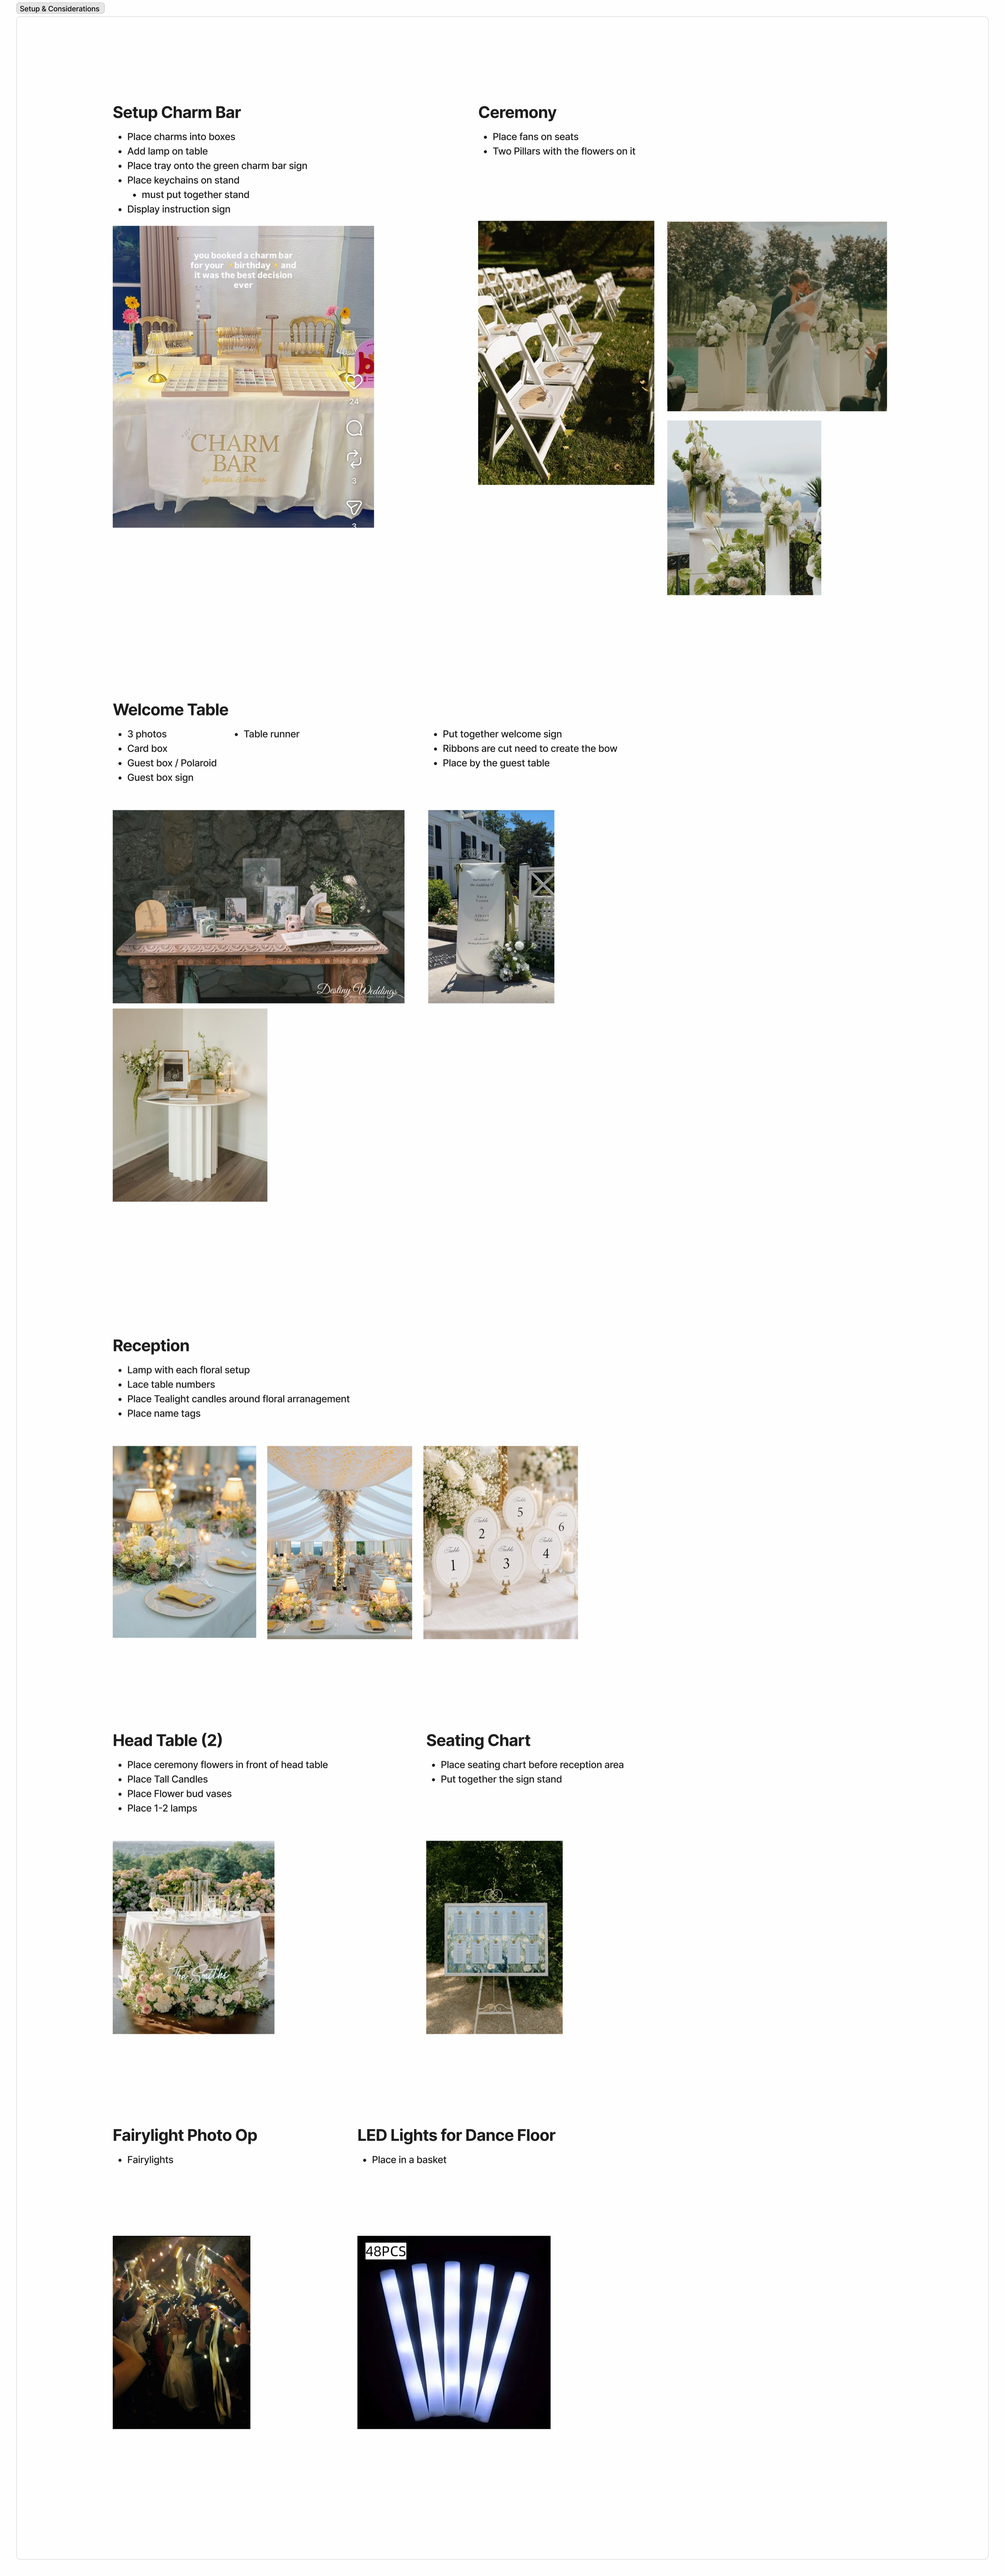
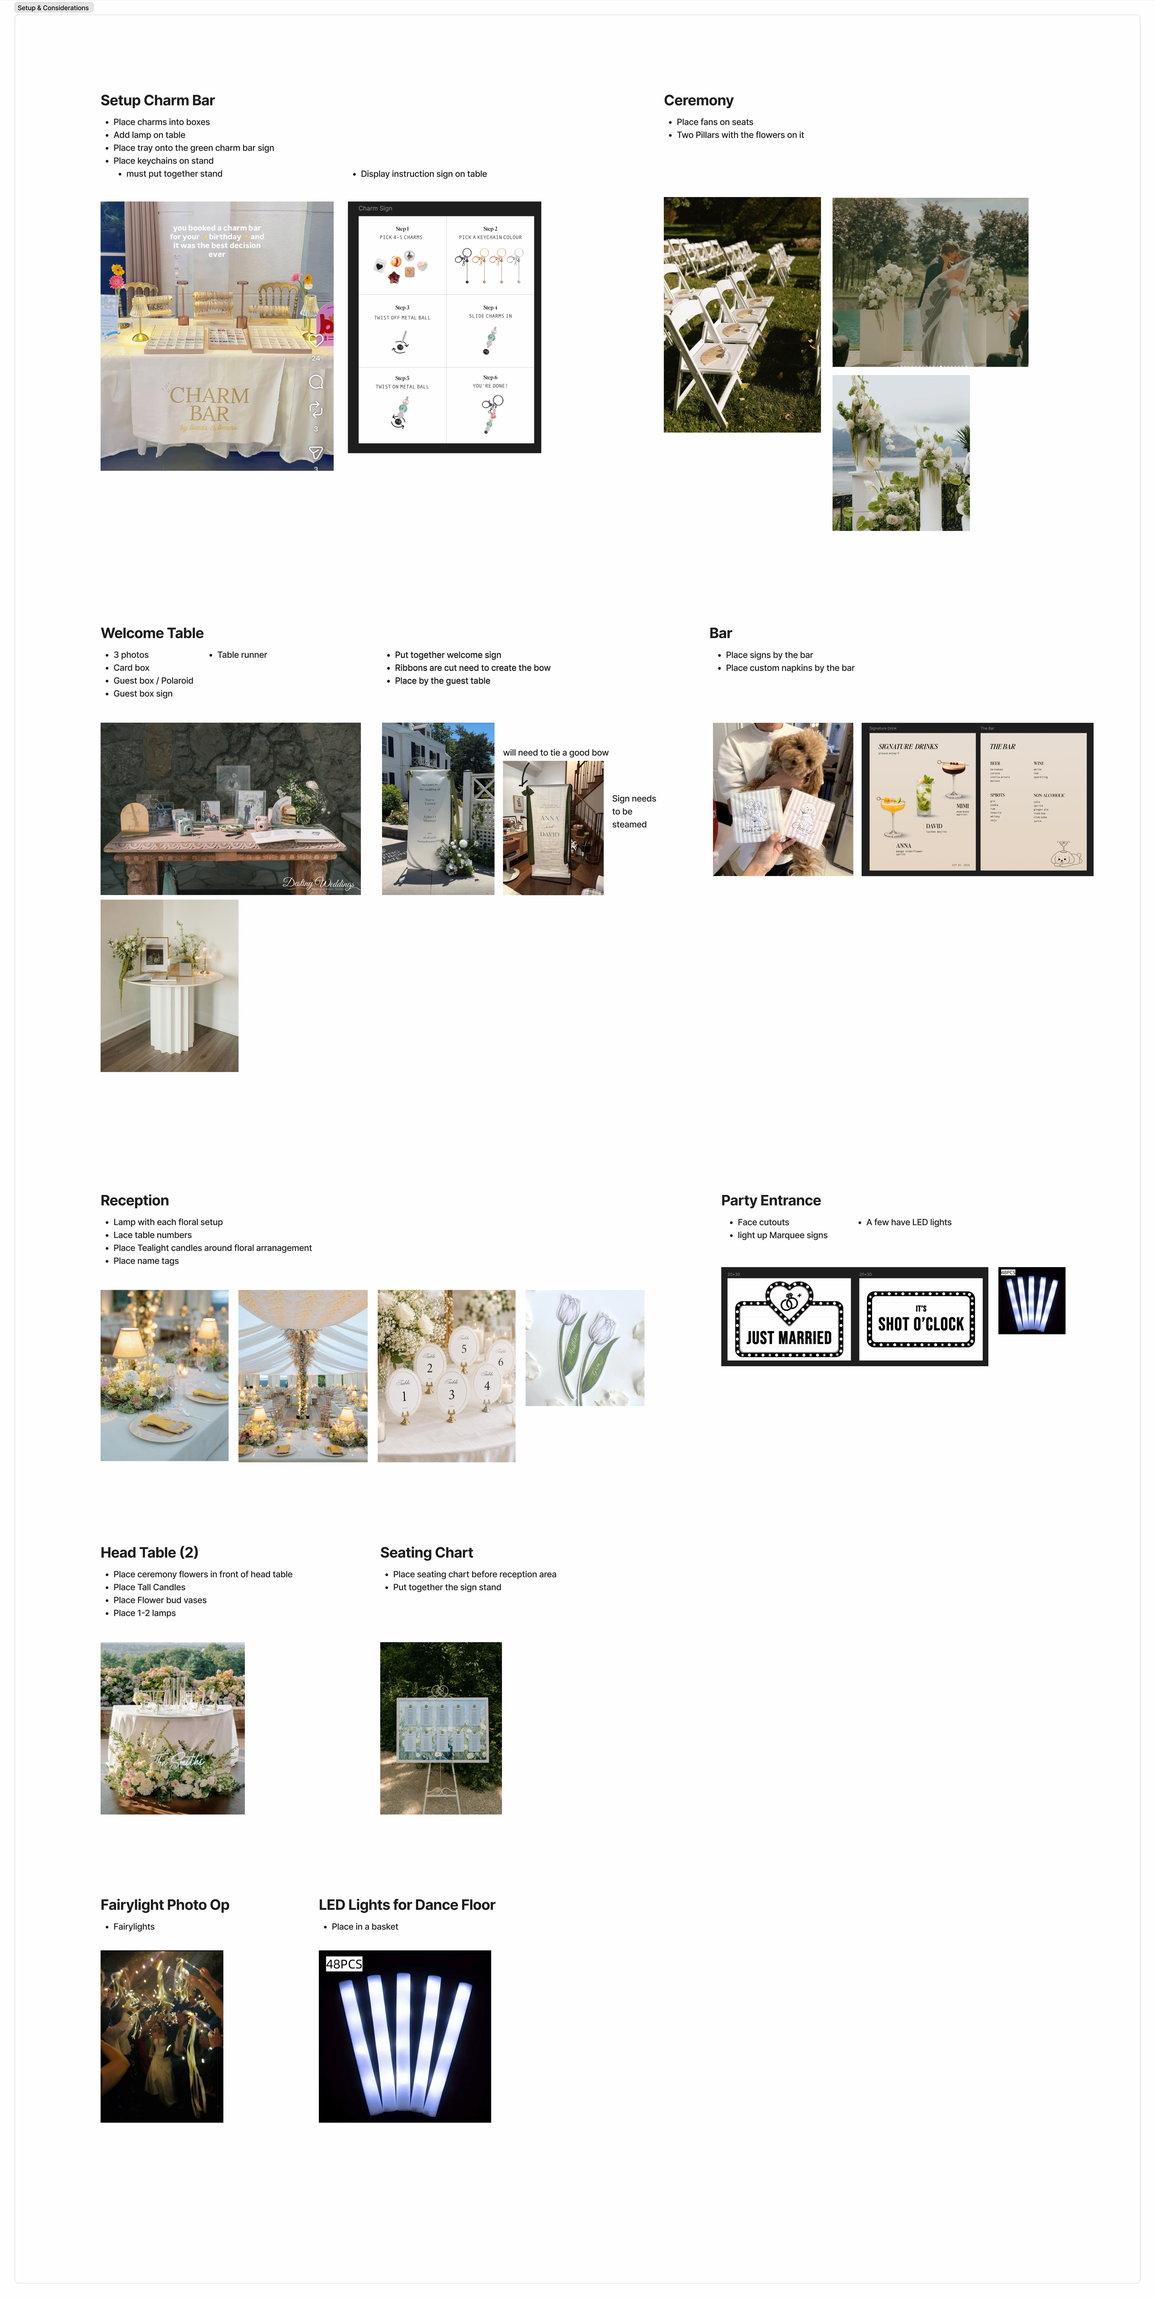
Update setup references board
Adds the Bar and Party Entrance sections plus the charm bar instruction
sign, so the card meta goes from 8 to 10 sections.

diff --git a/index.html b/index.html
@@ -2017,7 +2017,7 @@ const ATTACHMENTS = [
     src:'setup-references.jpg',
     title:'Setup References',
     desc:'How to set up each table, sign, and display',
-    meta:'Image · 8 sections',
+    meta:'Image · 10 sections',
   },
 ];
 
